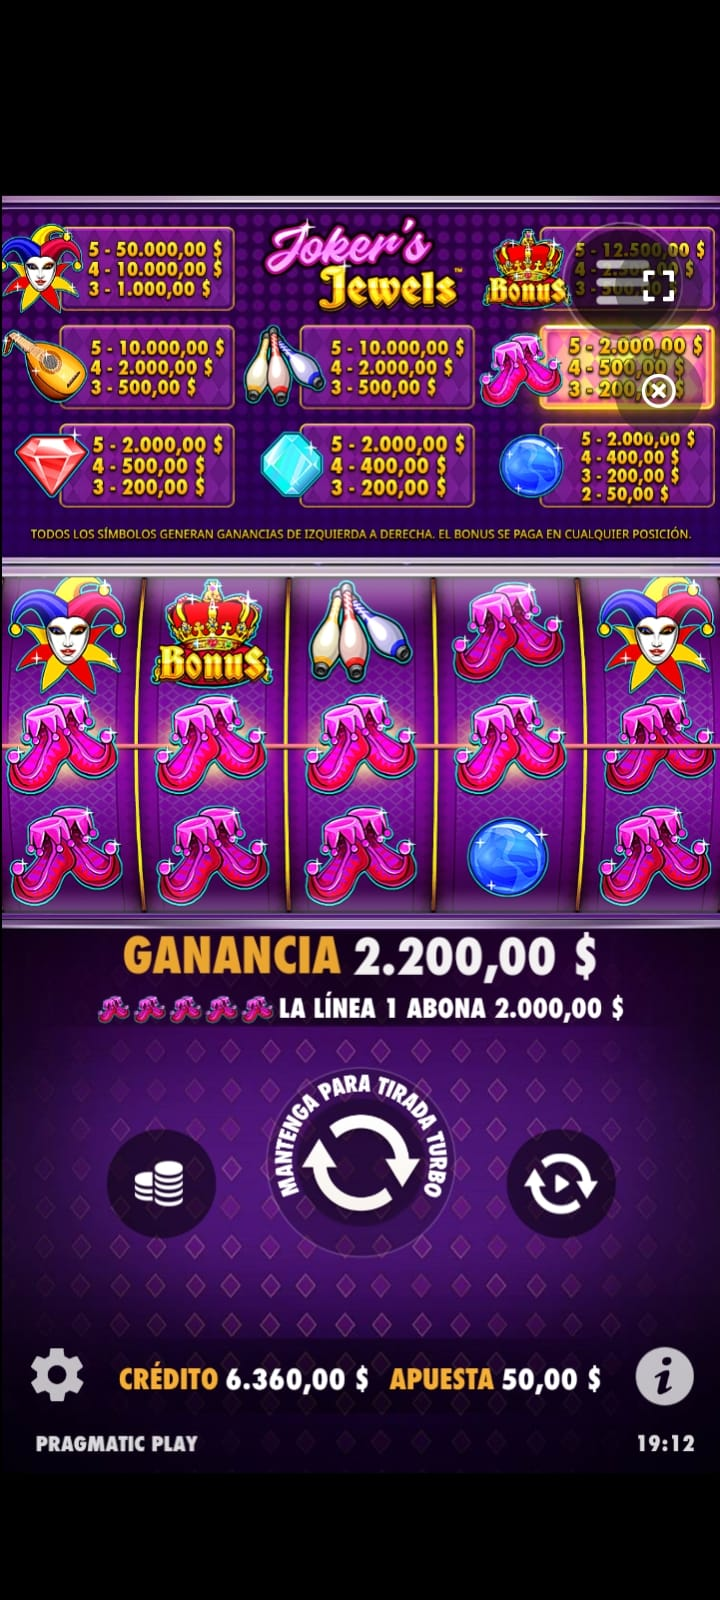
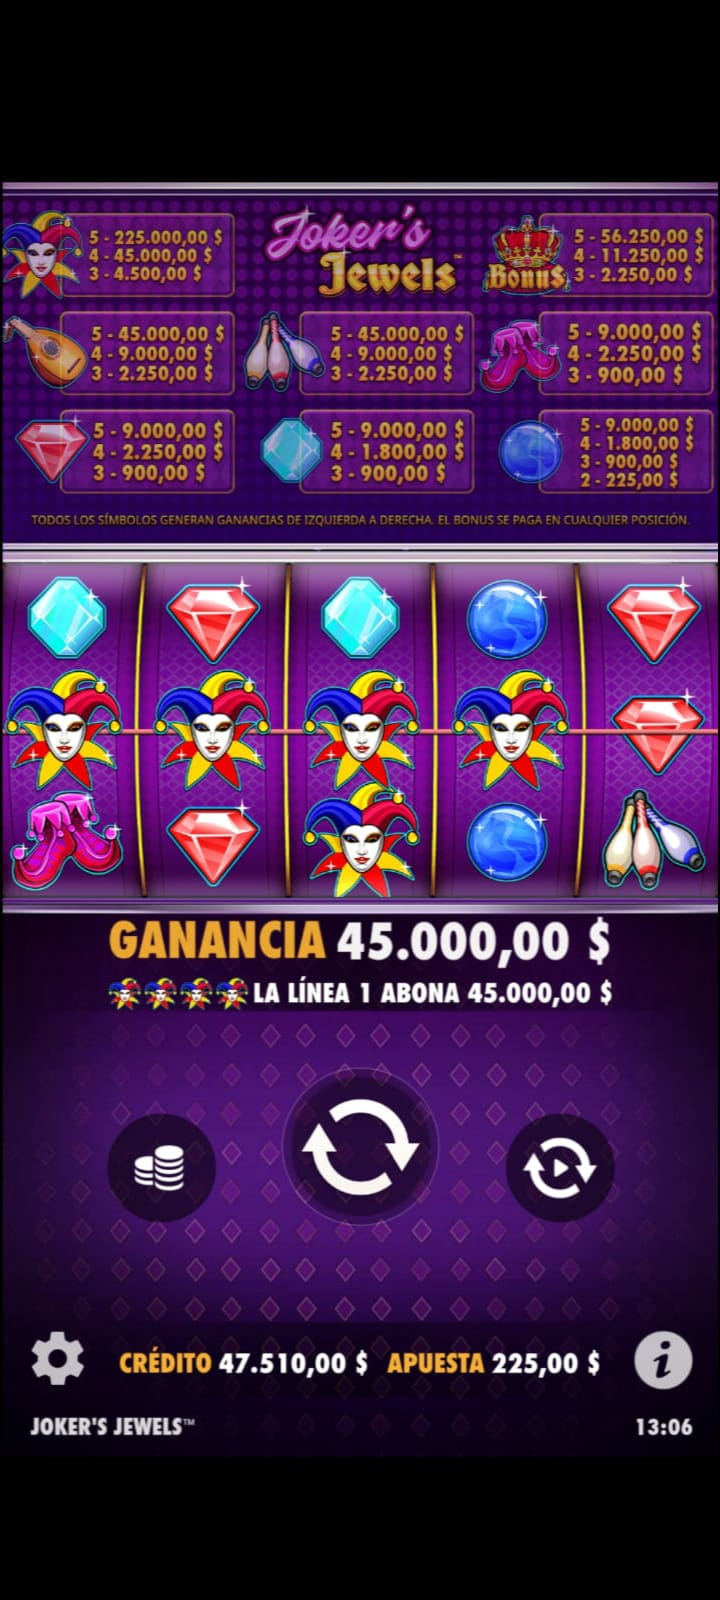
actualizaciones de fotos

diff --git a/index.html b/index.html
@@ -30,7 +30,7 @@
         <p>Mira algunos de los pagos y ganancias recientes de nuestros usuarios:</p>
         <div class="gallery-images">
             <img src="images/pago1.jpg" alt="Pago 1">
-            <img src="images/pago22.jpg" alt="Pago 2">
+            <img src="images/pago2.jpg" alt="Pago 2">
             <img src="images/pago3.jpg" alt="Pago 3">
             <img src="images/pago4.jpg" alt="Pago 4">
         </div>
